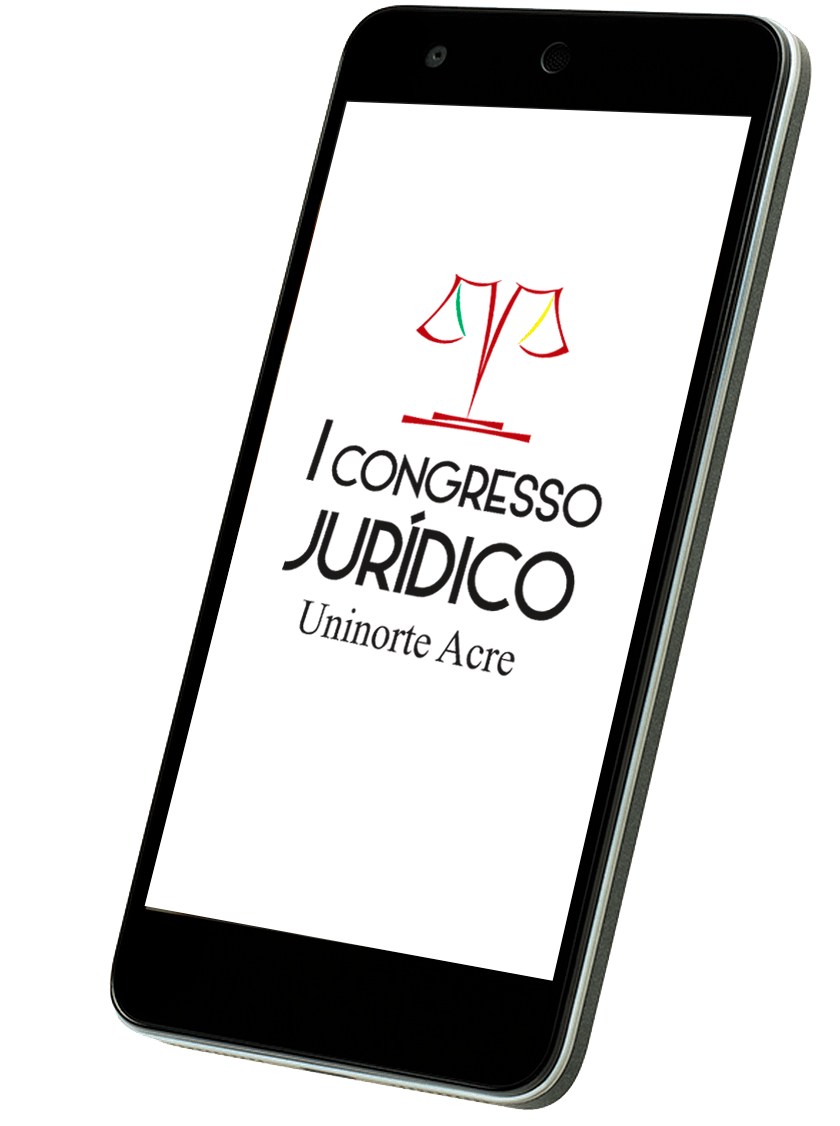
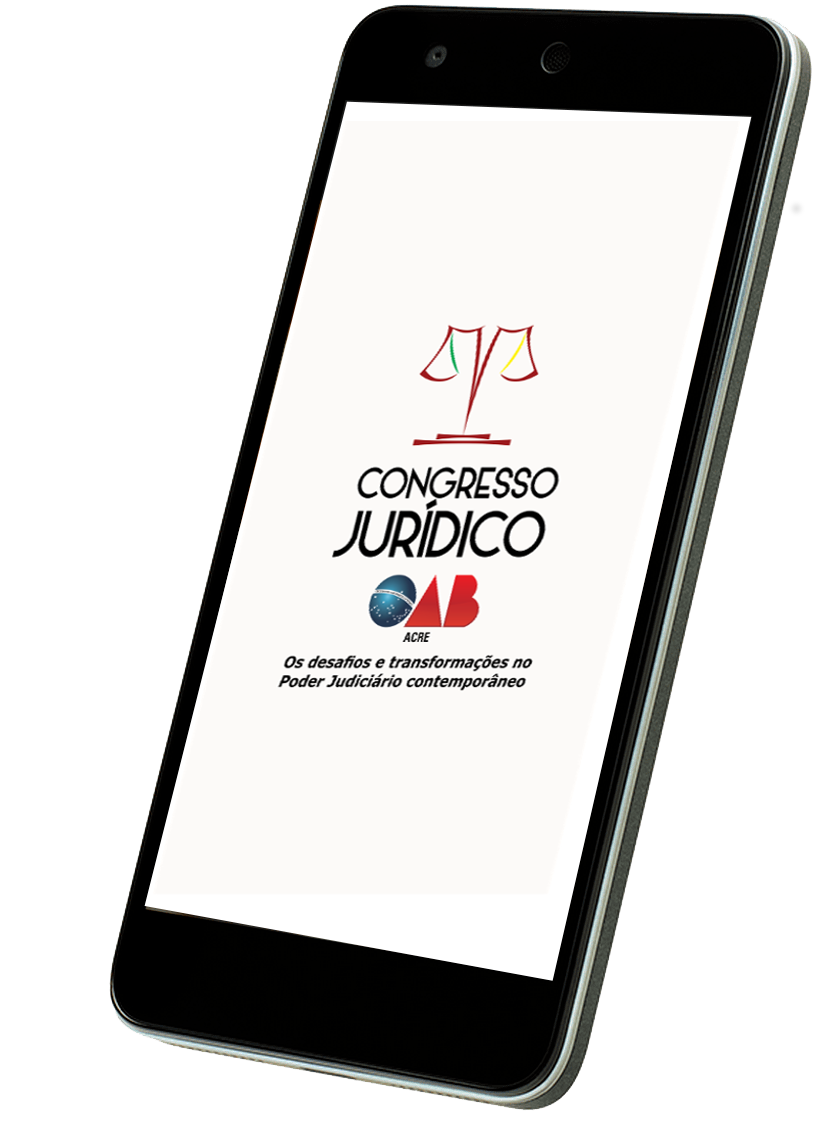
Alterações em imagens
patrocicinio apoio

Changed region(s): [[0.3405, 0.2487, 0.7119, 0.6217]]

diff --git a/views/home.php b/views/home.php
@@ -45,8 +45,8 @@
     <div class="wrap">
       <div class="date"><i class="pe-7s-date"></i>14<span>Agosto, 2017</span></div>
       <div class="location"><i class="pe-7s-map-marker"></i>Resort Hotel<span>Rio Branco, AC</span></div>
-      <div class="speakers"><i class="pe-7s-micro"></i>11 <span>Palestrantes</span></div>
-      <div class="remaining"><i class="pe-7s-add-user"></i>1200 <span>Ingressos</span></div>
+      <div class="speakers"><i class="pe-7s-micro"></i>13 <span>Palestrantes</span></div>
+      <div class="remaining"><i class="pe-7s-add-user"></i>1000 <span>Ingressos</span></div>
     </div>
   </div>
   <div class="col-ms-12">
@@ -111,11 +111,11 @@
         <div class="section-title">
           <i class="pe-7s-display2"></i>
           <h3 class="text-center">Sobre o Evento</h3>
-          <p class="text-left">O I Congresso Jurídico da UNINORTE/AC é um evento destinado a todos aqueles possuem atuação ou interesse nas mais diversas áreas da ciência do Direito, desde os acadêmicos em formação até advogados, bacharéis e profissionais dos mais variados campos da seara jurídica em todas as partes do Estado do Acre e do Brasil.</p>
-          <p class="text-left">Em um projeto inovador, realizado pela União Educacional do Norte (UNINORTE) e uma comissão de acadêmicos, o presente evento terá por duração o período de 04 (quatro) dias, compreendendo-se entre os dias 14 e 17 de agosto de 2017, em Rio Branco, Acre.</p>
-          <p class="text-left">Realizando-se no Centro de Convenções do Resort Hotel, com capacidade para aproximadamente 1.500 (mil e quinhentas) pessoas, a estrutura deste Congresso contará com modernos recursos de som e imagem, bem ainda variados sistemas automatizados de recepção, credenciamento e meios que facilitarão a participação de seus inscritos com os congressistas, o que permitirá a total comodidade, mobilidade e interação de seus inscritos nesta realização.</p>
-          <p class="text-left">Com foco em ramos jurídicos de direito civil e processual civil, penal e processual penal, bem como o direito constitucional, eleitoral, humanos e a deontologia jurídica, o evento visará discutir temas elementares de alguns dos pontos mais importantes de interesse público na atualidade.</p>
-          <p class="text-left">Nesta ocasião, serão proporcionados aos seus participantes debates, painéis temáticos, mesas redondas e apresentações de artigos científicos, através de um rico compartilhamento de experiências e aprendizados entre desembargadores, doutrinadores, juízes, procuradores, promotores, discentes, docentes e profissionais da advocacia pública e privada a nível local e nacional, onde sua principal missão vislumbra-se em fomentar a reflexão de assuntos que influenciam diretamente a sociedade em geral por meio das abordagens mencionadas.</p>
+          <p class="text-left">O Congresso Jurídico OAB/AC é um evento destinado a todos aqueles possuem atuação ou interesse nas mais diversas áreas da ciência do Direito, desde os acadêmicos em formação até advogados, bacharéis e profissionais dos mais variados campos da seara jurídica em todas as partes do Estado do Acre e do Brasil.</p>
+          <p class="text-left">Em um projeto inovador, realizado pela Ordem dos Advogados do Brasil (OAB) – Seccional Acre e uma comissão de acadêmicos da XXIV Turma de Direito Vespertino da Uninorte/AC, o presente evento terá por duração o período de 04 (quatro) dias, compreendendo-se entre os dias 14 e 17 de agosto de 2017, em Rio Branco, Acre.</p>
+          <p class="text-left">Realizando-se no Teatro Universitário da Universidade Federal do Acre(UFAC), com capacidade para aproximadamente 1.000 (um mil) pessoas, a estrutura deste Congresso contará com modernos recursos de som e imagem, bem ainda variados sistemas automatizados de recepção, credenciamento e meios que facilitarão a participação de seus inscritos com os congressistas, o que permitirá a total comodidade, mobilidade e interação de seus inscritos nesta realização.</p>
+          <p class="text-left">Com foco em ramos jurídicos de direito civil e processual civil, penal e processual penal, bem como o direito constitucional, eleitoral, humanos e a deontologia jurídica, o evento visará discutir temas elementares de alguns dos pontos mais importantes de interesse público na atualidade, sobretudo os desafios e transformações que norteiam o Poder Judiciário contemporâneo e suas funções essenciais à justiça.</p>
+          <p class="text-left">Nesta ocasião, serão proporcionados aos seus participantes debates, painéis temáticos, mesas redondas e apresentações de artigos científicos, através de um rico compartilhamento de experiências e aprendizados entre desembargadores, doutrinadores, juízes, procuradores, promotores, discentes, docentes e profissionais da advocacia pública e privada a nível local e nacional, onde sua principal missão vislumbra-se em fomentar a reflexão de assuntos que influenciam diretamente a sociedade em geral por meio das abordagens mencionadas. </p>
           <p class="text-left">Este acontecimento, em especial, direciona-se em sua essência para os advogados, bacharéis e para os estudantes de Direito, classes estas que representam o futuro do Direito acreano e nacional, e que merecem total atenção e dedicação para que realizações heterogêneas como esta, possam estimulá-los ainda mais no despertar daquilo que objetivam, lutam ou lutarão em prol da mais pura e lídima justiça – o grande pilar desta louvável profissão.</p>
       </div>
     </div>
@@ -170,12 +170,12 @@
   <div class="container">
     <div class="row">
       <div class="col-md-3 col-sm-6">
-        <p class="timer" data-from="0" data-to="1200" data-speed="4000"></p>
+        <p class="timer" data-from="0" data-to="1000" data-speed="4000"></p>
         <p class="separator"></p>
         <p class="name">Ingressos</p>
       </div>
       <div class="col-md-3 col-sm-6">
-        <p class="timer" data-from="0" data-to="11" data-speed="8000"></p>
+        <p class="timer" data-from="0" data-to="13" data-speed="8000"></p>
         <p class="separator"></p>
         <p class="name">Palestrantes</p>
       </div>
@@ -201,7 +201,7 @@
       <div class="section-title">
         <i class="pe-7s-date"></i>
         <h3>Programação do Evento</h3>
-        <p class="sub-title">Confira tudo, uma programação incrível em palestras, paineis tematicos, mesas redodas, confira a programação da 1ª edição do Congresso Jurídico Uninorte</p>
+        <p class="sub-title">Confira tudo, uma programação incrível em palestras, paineis tematicos, mesas redodas, confira a programação do Congresso Jurídico OAB-AC</p>
       </div>
     </dconfira a iv>
   </di
@@ -891,9 +891,9 @@ d   <!-- Schedule -->
         <p class="sub-title">Baixe o aplicativo do congresso, aproveite toda programação com interatividade entre os participantes e palestrantes, confira nosso app. </p>
         <div class="sistema"></div>
         <div class="button">
-          <button class="btn btn-theme" type="submit"><i class="fa fa-android fa-fw" aria-hidden="true"></i>Disponível na Play Store</button>
+          <button class="btn btn-theme" type="submit"><i class="fa fa-android fa-fw" aria-hidden="true"></i>Em Breve na Play Store</button>
           <a href="#" class="btn btn-theme" ><i class="fa fa-apple fa-fw" aria-hidden="true">
-          </i>Disponível na App Store</a>
+          </i>Em Breve na App Store</a>
         </div>
       </div>
     </div>
@@ -1312,8 +1312,8 @@ Inscrição para estudante válida somente para graduação.</p>
     <div class="row">
       <div class="col-sm-12 col-md-12">
         <!-- <div id="gmap"></div> -->
-        <iframe src="https://www.google.com/maps/embed?pb=!1m18!1m12!1m3!1d62871.03910393446!2d-67.86983641651317!3d-9.980470073251194!2m3!1f0!2f0!3f0!3m2!1i1024!2i768!4f13.1!3m3!1m2!1s0x0%3A0x5cd453ff16c3fa59!2sResort+Hotel+Amaz%C3%B4nia+Rio!5e0!3m2!1spt-PT!2sbr!4v1495459864204" width="100%" height="550" frameborder="0" style="border:0" allowfullscreen></iframe>
-        <div class="contact-form clearfix">
+        <iframe src="https://www.google.com/maps/embed/v1/place?q=Teatro%20Universit%C3%A1rio%20-%20ufac&key=AIzaSyAKAIx_gkfGuWmVFXdQKq8rLgbUDgw08-I" width="100%" height="550" frameborder="0" style="border:0" allowfullscreen></iframe>
+          <div class="contact-form clearfix">
           <form id="contact-form" method="post" action="./contact/contact-process.php">
             <div class="col-sm-6">
               <div class="input-text">
@@ -1336,7 +1336,7 @@ Inscrição para estudante válida somente para graduação.</p>
         </div>
         <div class="contact-info">
           <ul class="clearfix">
-            <li><i class="pe-7s-map-marker"></i><p>Resort Hotel<br>Estrada da Floresta, 5000 - Em frente a rotatória da 3º Ponte.<br><br></p></li>
+            <li><i class="pe-7s-map-marker"></i><p>Teatro Universitário<br>Campus da Universidade Federal do Acre, Rio Branco - AC, 69917-400<br><br></p></li>
             <li><i class="pe-7s-call"></i><p>
             (68) 99973-5547 Coord.<br>
             (68) 99954-0696 V. Coord.<br>
@@ -1594,16 +1594,7 @@ Inscrição para estudante válida somente para graduação.</p>
       <div class="modal-body">
        <p>O evento possui uma área espaçosa que reúne cinco espaços, que podem ser locados em conjunto ou individualmente, sendo:</p>
 
-
-      <ul>
-        <li>Sala de treinamento Xapuri: 70 lugares</li>
-        <li>Sala de treinamento Rio Acre: 70 lugares</li>
-        <li>Sala de treinamento Rio Acre 2: 70 lugares</li>
-        <li>Auditório Rio Juruá: 170 lugares</li>
-      </ul>
-
-
-      <p> Aproveite nosso evento e feche ótimos negócios, o 1º Congresso Jurídico do Acre acontece em parceria com o Resort Hotel.</p>
+      <p> Aproveite nosso evento e feche ótimos negócios.</p>
       </div>
     </div>
   </div>
